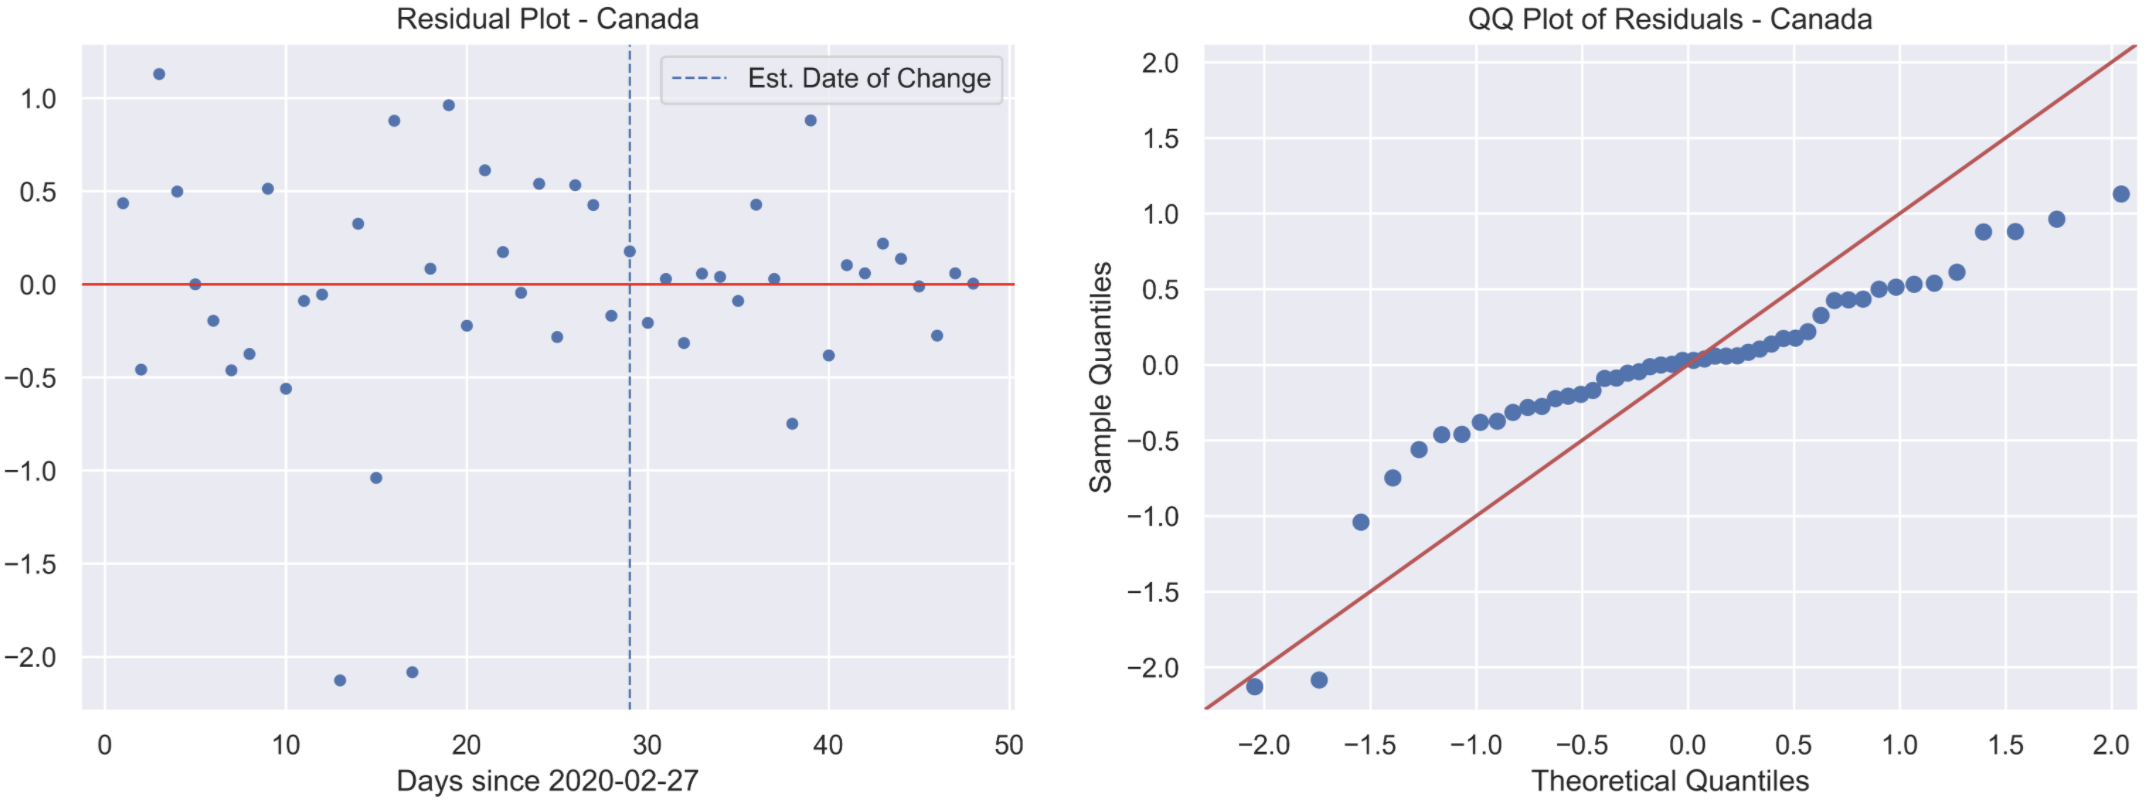
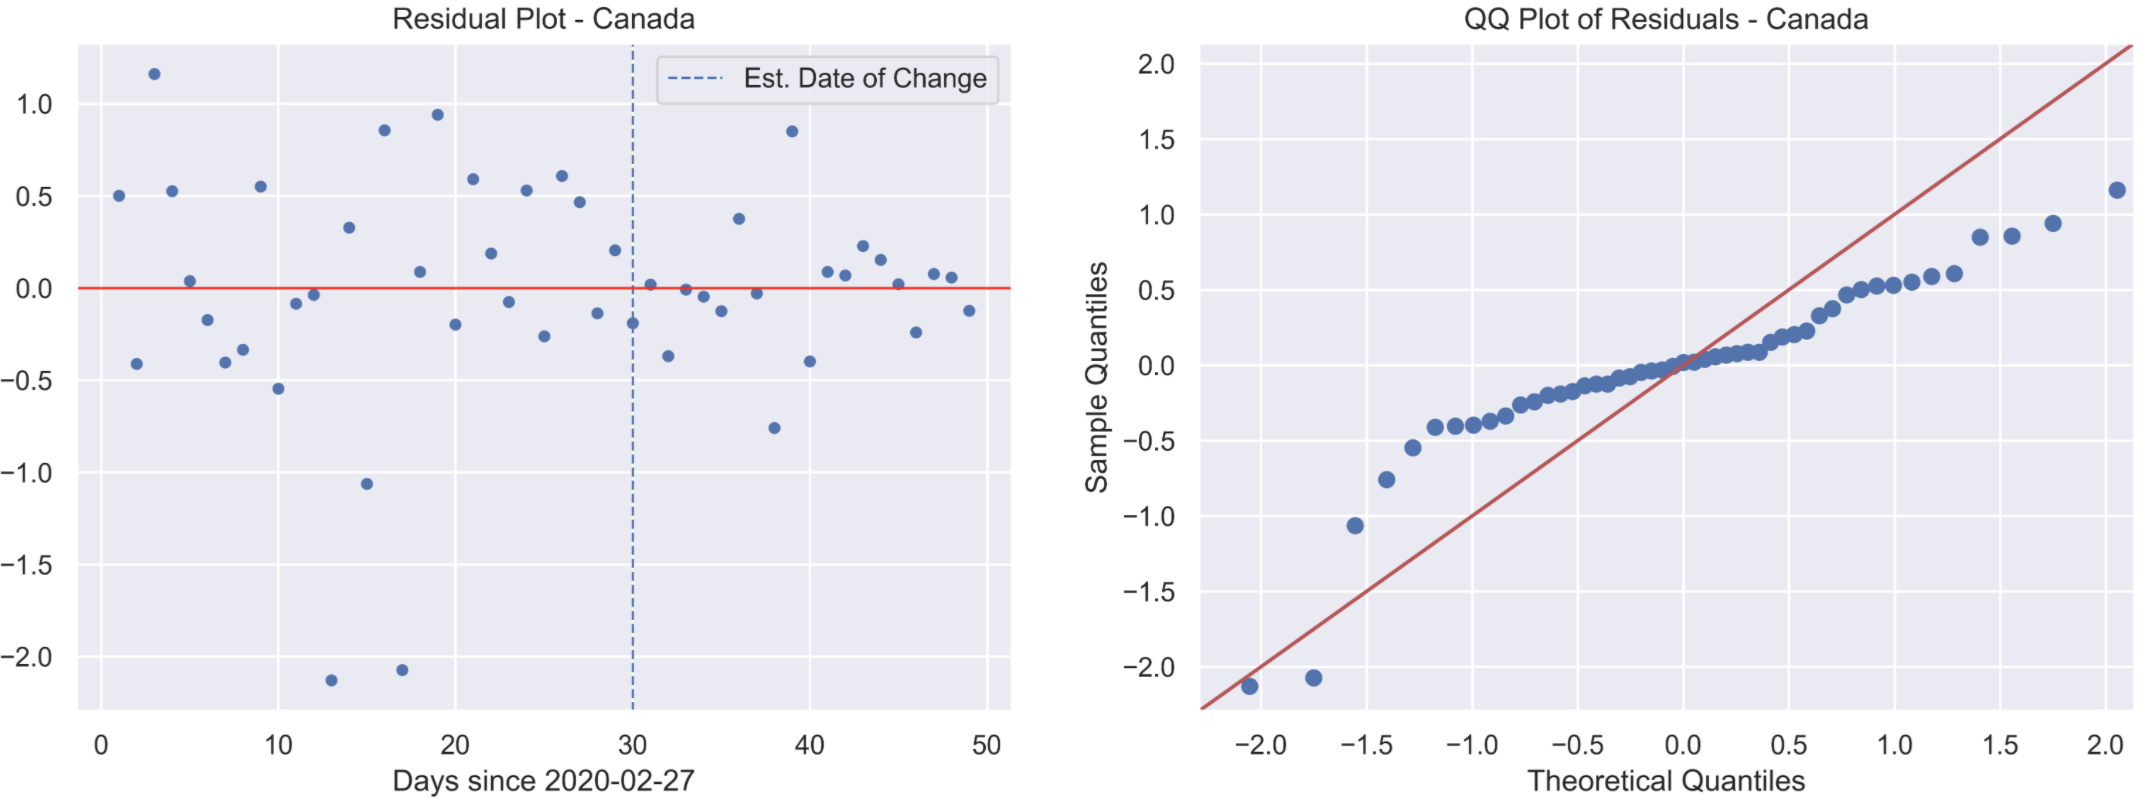
updated posteriors

diff --git a/_posts/2020-04-11-covid-changepoint-analysis.md b/_posts/2020-04-11-covid-changepoint-analysis.md
@@ -126,7 +126,7 @@ The data used was downloaded from [Kaggle](https://www.kaggle.com/imdevskp/coron
 The virus also starts at different times in different countries. Because we have a regression model, it is inappropriate to include data prior to the virus being in a particular country. This date is chosen by hand for each country based on the progression of new cases and is never the date the first patient is recorded. The "start" date is better interpreted as the date the virus started to consistently grow, as opposed to the date the patient 0 was recorded.
 
 &nbsp;
-
+![](/assets/italy-daily-cases.png)
 &nbsp;
 
 Hamiltonian Monte Carlo is used for posterior sampling.
@@ -170,9 +170,9 @@ $$
 
 Starting the the posteriors for $w_1$ and $w_2$, if there was no change in the data we would expect to see these two distributions close to each other as they govern the growth rate of the virus. It is a good sign that these distributions, along with the posteriors for $b_1$ and $b_2$, don't overlap. The posterior for $\tau$ is also symmetric about its mean and doesn't show signs of bi-modality. All of this is evidence that the change point estimated by our model is true.
 
-This change point was estimated as: **2020-03-27**
+This change point was estimated as: **2020-03-28**
 
-As a side note, with no hard science attached, my company issued a mandatory work from home policy on March 16th, 13 days before the model's estimated change date. This is around the date most companies issued mandatory work from home policies. Assuming the incubation period for the virus around 10-14 days as reported, these dates align!
+As a side note, with no hard science attached, my company issued a mandatory work from home policy on March 16th, 12 days before the model's estimated change date. This is around the date most companies issued mandatory work from home policies. Assuming the incubation period for the virus around 10-14 days as reported, these dates align!
 The model fit along with 95% credible interval bands can be seen in the plot below. Also included is the true number of daily cases.
 
 &nbsp;
@@ -200,7 +200,7 @@ The residuals look to follow a Normal distribution with zero mean, and no have d
 
 ### What About no Change?
 
-To test the model's robustness to a country that has not began to flatten the curve, we'll look at data from Canada up until March 27th. This is the day that the model estimated curve flattening began in Canada. Just because there isn't a true change date doesn't mean the model will output "No change". We'll have to use the posterior distributions to reason that the change date provided by the model is inappropriate, and consequentially there is no change in the data.
+To test the model's robustness to a country that has not began to flatten the curve, we'll look at data from Canada up until March 28th. This is the day that the model estimated curve flattening began in Canada. Just because there isn't a true change date doesn't mean the model will output "No change". We'll have to use the posterior distributions to reason that the change date provided by the model is inappropriate, and consequentially there is no change in the data.
 
 **Prior**
 
